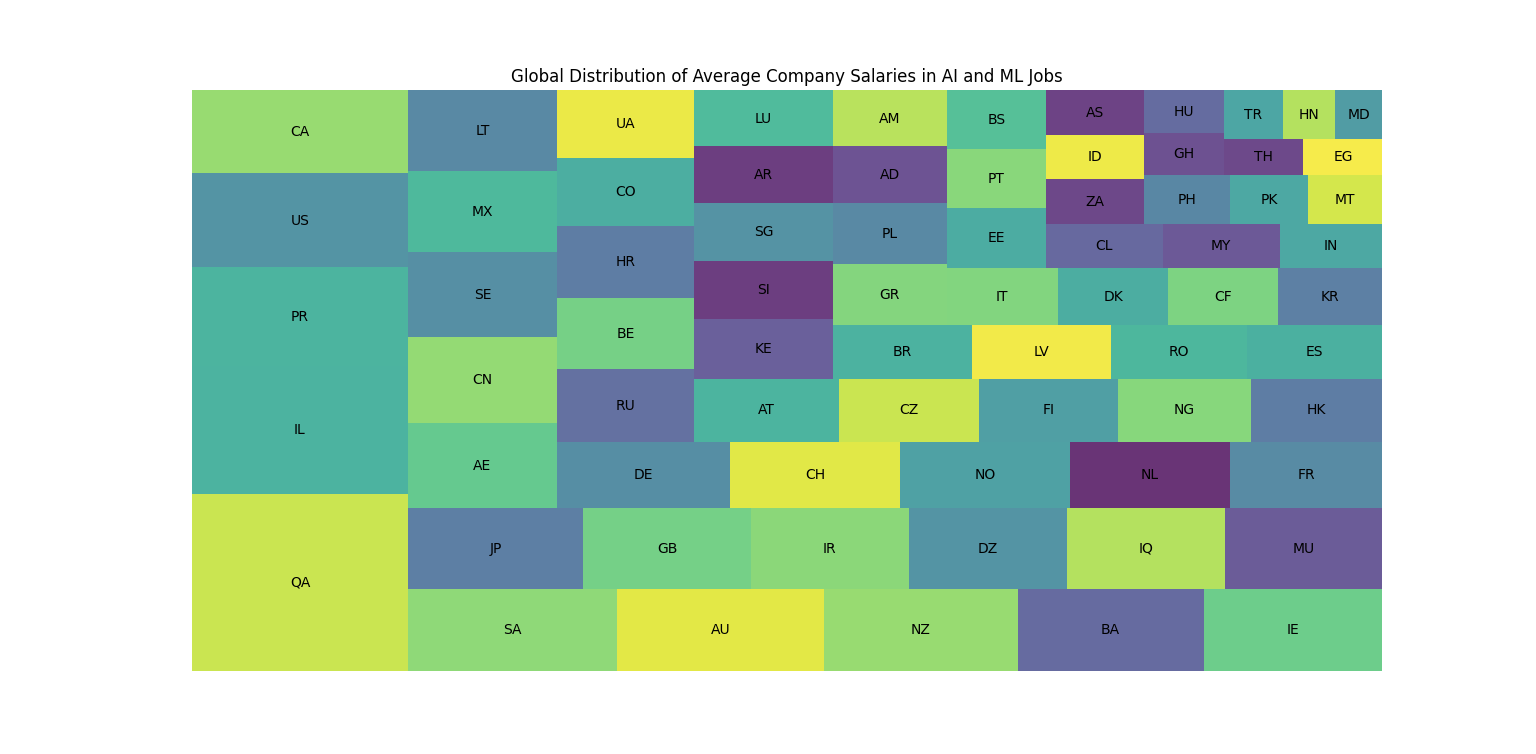
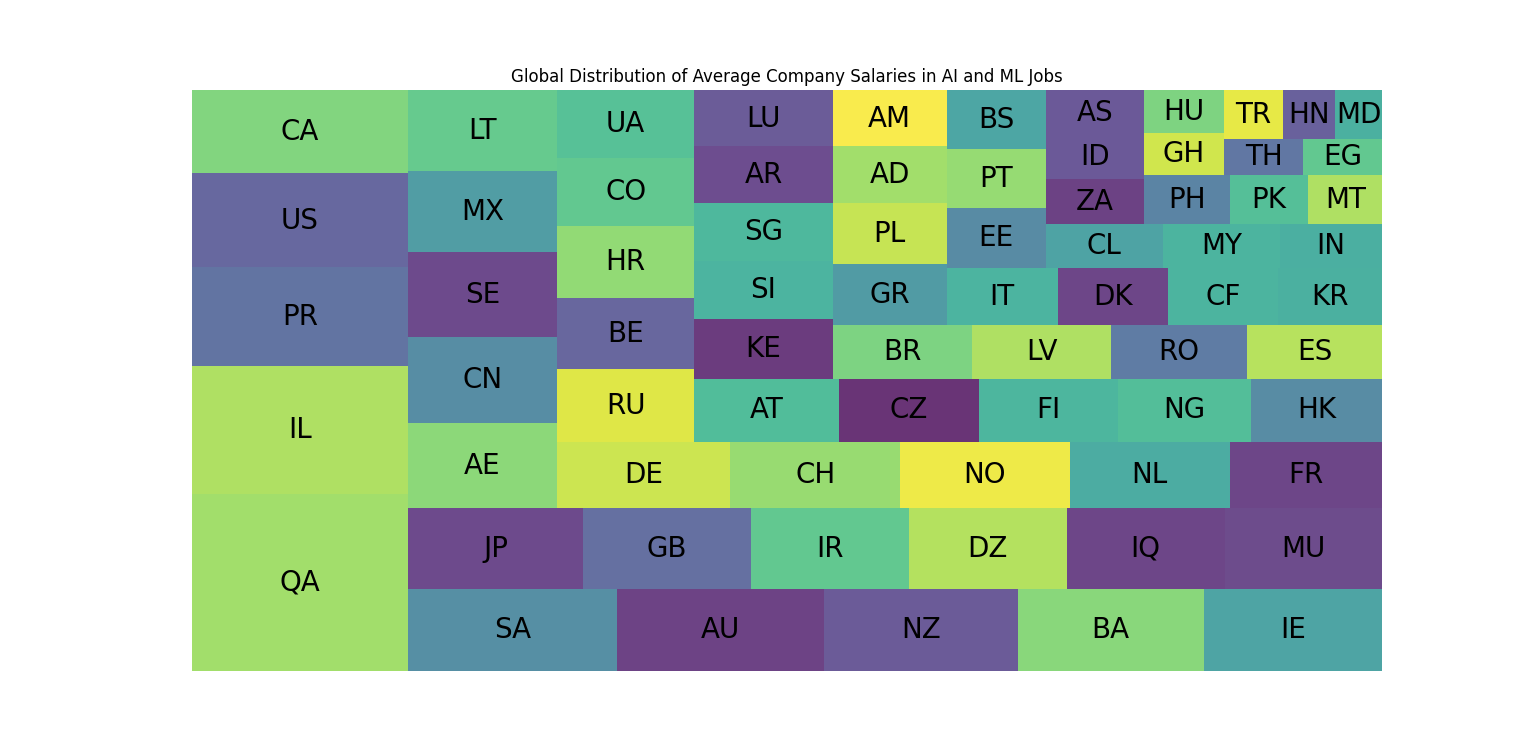
Final graphs - tree-map and bar graph for company location and average salary

diff --git a/location_bar.py b/location_bar.py
@@ -1,0 +1,16 @@
+import pandas as pd
+import matplotlib.pyplot as plt
+
+df = pd.read_csv('ai_salaries.csv')
+
+location_salary_mean = df.groupby('company_location')['salary_in_usd'].mean().sort_values(ascending=False)
+
+top_20_countries = location_salary_mean.head(20)
+
+plt.figure(figsize=(12,6))
+top_20_countries.plot(kind='bar', color='darkblue')
+plt.xlabel('Job Title')
+plt.ylabel('Average Salary (USD)')
+plt.title('Global Distribution of Average Company Salaries in AI and ML Jobs')
+plt.xticks(rotation=45, ha='right', fontsize=15)
+plt.show()

diff --git a/location_salary.py b/location_salary.py
@@ -9,7 +9,7 @@ avg_salaries = df.groupby('company_location')['salary_in_usd'].mean().sort_value
 top_72 = avg_salaries.head(72)
 
 plt.figure(figsize=(16, 14))
-squarify.plot(sizes=top_72, label=top_72.index, alpha=0.8)
+squarify.plot(sizes=top_72, label=top_72.index, alpha=0.8, text_kwargs={'fontsize':20})
 plt.title("Global Distribution of Average Company Salaries in AI and ML Jobs")
 plt.axis('off')
 plt.show()
